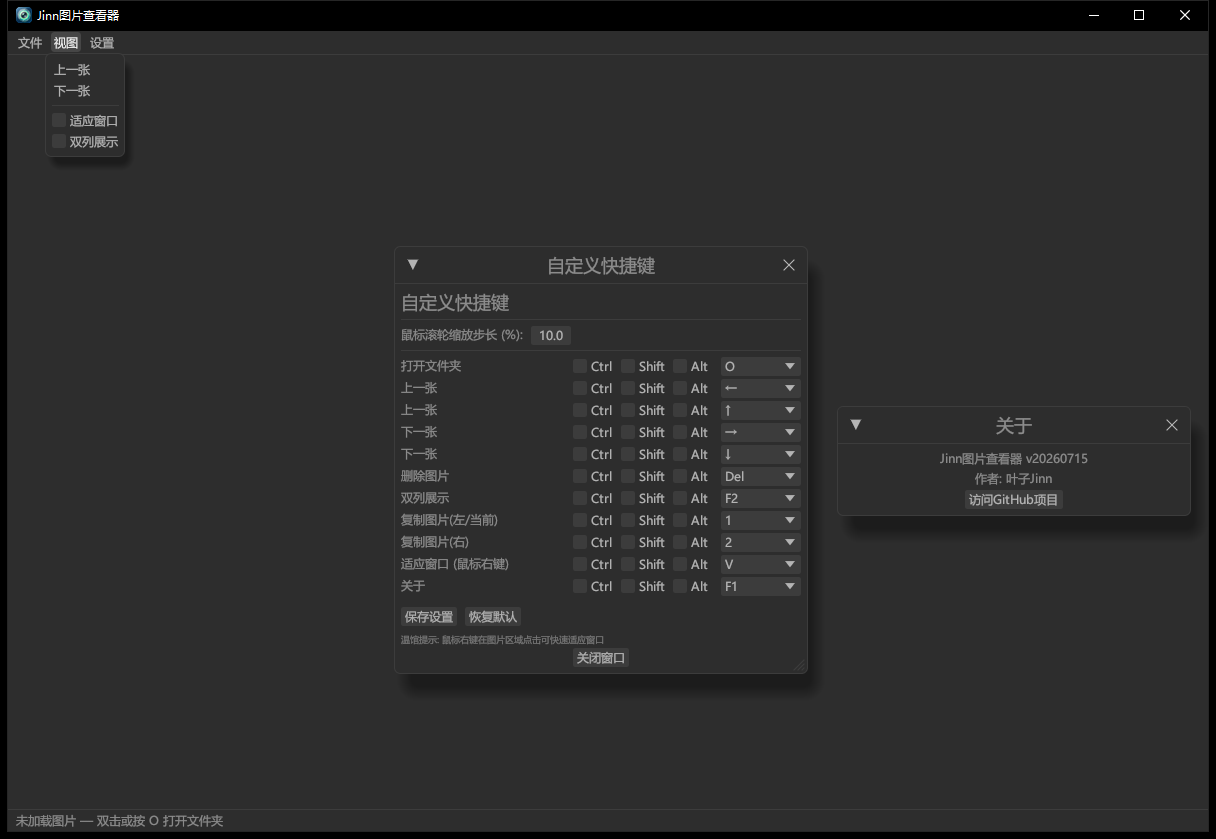
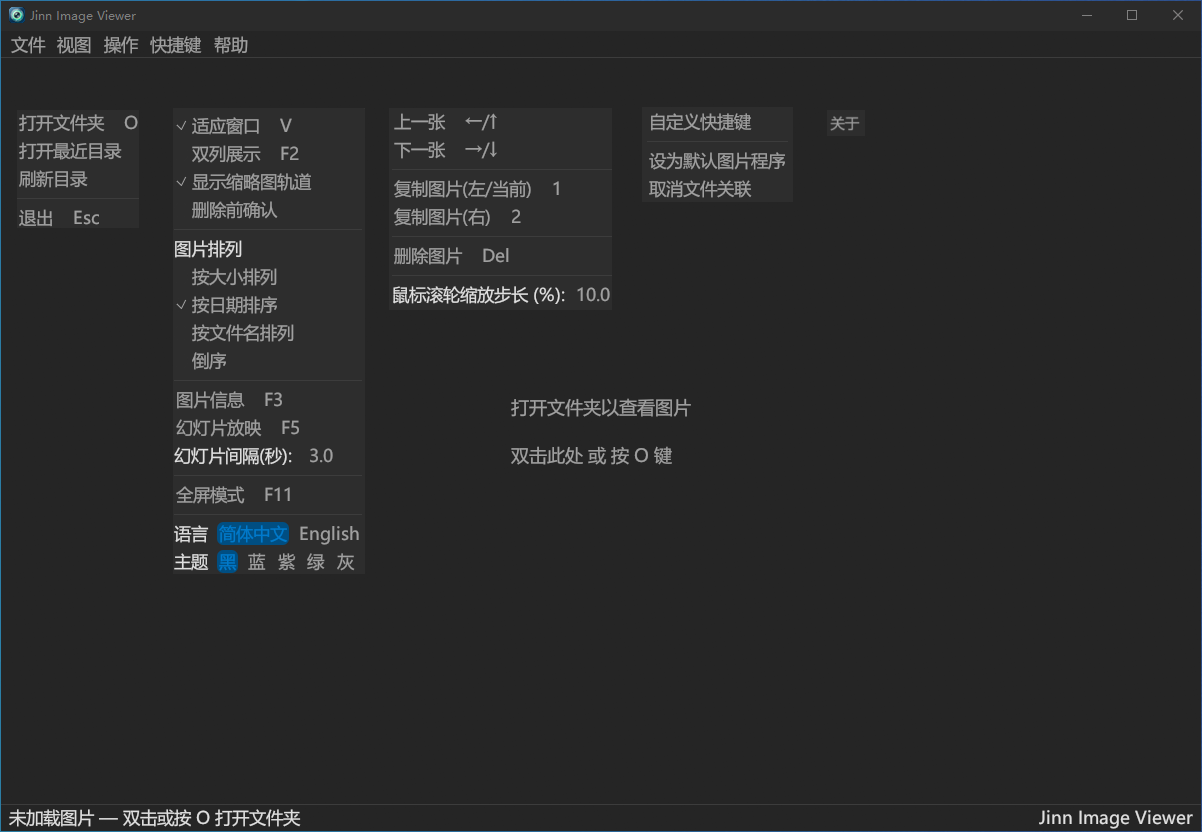
docs: 更新截图和README
重写 README.md 为 GitHub 风格展示页，添加功能预览截图和快捷键表；更新 AGENTS.md 项目概述。

diff --git a/README.md b/README.md
@@ -2,120 +2,214 @@
 
 # Jinn 图片查看器
 
-**轻量、快速、暗黑主题的 Windows 桌面图片浏览器**
+**一款轻量、快速、专注本地浏览的 Windows 图片查看器**
 
-基于 Rust + egui 构建，启动即用，无需安装
+基于 **Rust + egui/eframe** 构建，支持静态图片、GIF 动图、双列对比、缩略图导轨和多主题切换。
 
-[![Rust](https://img.shields.io/badge/Rust-1.70%2B-orange?logo=rust)](https://www.rust-lang.org/)
-[![Platform](https://img.shields.io/badge/Platform-Windows-blue?logo=windows)](https://github.com/yezijinn/jinn_imageviewer)
-[![License](https://img.shields.io/badge/License-MIT-green)](LICENSE)
+<p>
+  <a href="#功能"><img src="https://img.shields.io/badge/功能-本地浏览-2f80ed" alt="功能"></a>
+  <a href="#构建"><img src="https://img.shields.io/badge/平台-Windows-107c10" alt="平台"></a>
+  <a href="https://www.rust-lang.org/"><img src="https://img.shields.io/badge/Rust-2021-orange?logo=rust" alt="Rust"></a>
+  <a href="LICENSE"><img src="https://img.shields.io/badge/License-MIT-green" alt="License"></a>
+</p>
 
 </div>
 
 ---
 
-## 截图
+## 预览
 
-| 启动页面 | 单图展示 |
-|:--------:|:--------:|
-| <img src="screenshots/启动页面.png" width="480"/> | <img src="screenshots/单图展示.png" width="480"/> |
+### 启动与单图浏览
 
-| 双列展示 | 菜单栏 |
-|:--------:|:------:|
-| <img src="screenshots/双列展示.png" width="480"/> | <img src="screenshots/菜单.png" width="480"/> |
+<div align="center">
+  <img src="screenshots/启动页面.png" width="48%" alt="启动页面">
+  <img src="screenshots/动态图可操作.png" width="48%" alt="动态图片浏览">
+</div>
+
+### 双列对比、缩略图与菜单
+
+<div align="center">
+  <img src="screenshots/双列展示.png" width="48%" alt="双列对比浏览">
+  <img src="screenshots/缩略图导轨.png" width="48%" alt="缩略图导轨">
+</div>
+
+<div align="center">
+  <img src="screenshots/菜单.png" width="48%" alt="菜单操作">
+  <img src="screenshots/自定义快捷键.png" width="48%" alt="自定义快捷键">
+</div>
 
 ---
 
 ## 功能
 
-- **文件夹浏览** — 打开文件夹，自动扫描 PNG/JPG/JPEG/BMP/GIF/WebP/TIFF 图片，自然排序
-- **键盘导航** — 方向键切换图片，循环跳转（末张→首张，首张→末张）
-- **双列模式** — F2 切换左右并排对比浏览
-- **鼠标滚轮缩放** — 滚轮缩放，自动退出适应窗口模式，步长可调
-- **适应窗口** — V 键或鼠标右键一键适应窗口大小
-- **静默删除** — Delete 键直接删除当前图片文件（无确认弹窗）
-- **复制图片** — 1/2 键快速复制当前/右侧图片到 exe 同级 copy 目录
-- **暗黑主题** — 全局暗黑 UI + Windows 深色标题栏
-- **快捷键自定义** — 可视化面板修改任意操作的按键和修饰键
-- **状态栏** — 实时显示文件名、序号、缩放比例
-- **中文字体** — 自动加载 Windows 系统中文字体，无需额外配置
+### 浏览与操作
+
+- 打开文件夹后自动扫描图片，并按自然排序排列文件名
+- 支持 PNG、JPG、JPEG、BMP、GIF、WebP、TIFF、TIF
+- 单列浏览与双列对比浏览
+- GIF 动图播放，双列模式支持左右两侧独立播放
+- 缩略图导轨根据窗口宽度分页显示
+- 鼠标滚轮缩放，支持适应窗口模式
+- 支持顺时针/逆时针旋转图片
+- 支持复制当前图片和双列右侧图片
+- 支持删除当前图片，可选删除前确认
+- 支持图片信息、EXIF 信息和旋转结果保存
+
+### 界面与配置
+
+- 深色界面和 Windows 深色标题栏
+- 黑、蓝、紫、绿、灰五种主题
+- 中文 / English 界面切换
+- 快捷键可视化自定义
+- 最近使用目录和显示设置自动保存
+- 静态画面空闲时不持续刷新，降低 CPU/GPU 占用
+- 支持设置为 Windows 默认图片查看程序
 
 ---
 
 ## 快捷键
 
 | 操作 | 默认按键 |
-|------|---------|
+|---|---|
 | 打开文件夹 | `O` |
 | 上一张 | `←` / `↑` |
 | 下一张 | `→` / `↓` |
 | 删除图片 | `Delete` |
-| 双列模式 | `F2` |
+| 双列展示 | `F2` |
 | 复制当前图片 | `1` |
 | 复制右侧图片 | `2` |
 | 适应窗口 | `V` / 鼠标右键 |
+| 图片信息 | `F3` |
+| 幻灯片放映 | `F5` |
+| 全屏模式 | `F11` |
 | 关于 | `F1` |
 | 退出 | `Esc` |
 
-所有快捷键均可在 **设置 → 自定义快捷键** 面板中修改。
+所有快捷键均可在 **快捷键** 窗口中重新配置。
 
 ---
 
-## 编译
+## 使用方式
 
-### 前提条件
+### 直接运行
 
-- [Rust](https://rustup.rs/) (MSVC 工具链)
-- [Visual Studio](https://visualstudio.microsoft.com/) 2022+ (安装 **"使用 C++ 的桌面开发"** 工作负载)
+可以将图片文件或目录拖到程序上，也可以通过命令行传入路径：
 
-### 编译命令
+```powershell
+./target/release/jinn-imageviewer.exe "D:\Pictures"
+./target/release/jinn-imageviewer.exe "D:\Pictures\photo.jpg"
+```
 
-```bash
+也可以启动程序后使用菜单中的 **打开文件夹**。
+
+### 文件关联
+
+程序内置文件关联操作，也提供脚本：
+
+- `register.bat`：注册为 Windows 图片查看程序
+- `unregister.bat`：取消文件关联
+
+---
+
+## 构建
+
+### 环境要求
+
+- Windows 10/11
+- Rust stable
+- `stable-x86_64-pc-windows-msvc` 工具链
+- Visual Studio 2022 或更新版本
+- Visual Studio 的 **使用 C++ 的桌面开发** 工作负载
+
+检查工具链：
+
+```powershell
+rustup default stable-x86_64-pc-windows-msvc
+rustc --version
+cargo --version
+```
+
+### Release 构建
+
+```powershell
 cargo build --release
 ```
 
-编译产物位于 `target/release/jinn-imageviewer.exe`。
+生成文件：
+
+```text
+target/release/jinn-imageviewer.exe
+```
+
+也可以运行项目提供的构建脚本：
+
+```powershell
+./build.ps1
+```
+
+或双击：
+
+```text
+build_exe.bat
+```
+
+### 验证
+
+```powershell
+cargo fmt --all -- --check
+cargo check --all-targets --all-features
+cargo clippy --all-targets --all-features -- -D warnings
+cargo test --all-targets --all-features
+```
 
 ---
 
 ## 项目结构
 
-```
+```text
 jinn_imageviewer/
-├── Cargo.toml          # 项目配置和依赖
-├── Cargo.lock          # 依赖锁定
-├── build.rs            # 编译脚本：嵌入 exe 图标 + 生成编译日期版本号
-├── app_icon.ico        # 应用图标
 ├── src/
-│   └── main.rs         # 全部源码
-├── icons/PNG/          # 图标源文件 (16/32/48/64/128/256)
-└── screenshots/        # 截图
+│   ├── main.rs       # Windows 程序入口
+│   ├── app.rs        # 应用状态、快捷键和生命周期
+│   ├── ui.rs         # 菜单、图片区域、缩略图和窗口 UI
+│   ├── image.rs      # 图片扫描、解码、纹理和 GIF 管理
+│   ├── config.rs     # 配置读写
+│   ├── i18n.rs       # 中英文文本
+│   ├── shortcuts.rs  # 快捷键配置
+│   ├── sorting.rs    # 自然排序
+│   ├── theme.rs      # 主题和颜色
+│   └── lib.rs        # 模块导出
+├── tests/            # 集成测试
+├── screenshots/      # README 截图
+├── icons/            # 图标源文件
+├── app_icon.ico      # Windows 应用图标
+├── build.rs          # 编译资源和版本日期
+├── Cargo.toml        # Rust 项目配置
+└── Cargo.lock        # 依赖锁定文件
 ```
 
 ---
 
 ## 技术栈
 
-| 依赖 | 用途 |
-|------|------|
-| [eframe](https://crates.io/crates/eframe) 0.31 | GUI 框架 (基于 egui) |
-| [image](https://crates.io/crates/image) 0.25 | 图片解码 (PNG/JPG/BMP/GIF/WebP/TIFF) |
-| [rfd](https://crates.io/crates/rfd) 0.15 | 原生文件选择对话框 |
-| [raw-window-handle](https://crates.io/crates/raw-window-handle) 0.6 | 获取窗口原生句柄 (暗黑标题栏) |
-| [open](https://crates.io/crates/open) 5.0 | 打开外部链接 |
-| [winres](https://crates.io/crates/winres) 0.1 | 编译时嵌入 Windows 图标资源 |
-| [chrono](https://crates.io/crates/chrono) 0.4 | 编译时生成版本号日期 |
+| 组件 | 用途 |
+|---|---|
+| [eframe](https://crates.io/crates/eframe) | 原生窗口和 egui 应用框架 |
+| [egui](https://github.com/emilk/egui) | 即时模式 GUI |
+| [image](https://crates.io/crates/image) | 图片解码和 GIF 帧处理 |
+| [rfd](https://crates.io/crates/rfd) | Windows 原生文件夹选择框 |
+| [raw-window-handle](https://crates.io/crates/raw-window-handle) | 获取原生窗口句柄 |
+| [serde](https://crates.io/crates/serde) | 配置序列化 |
+| [winres](https://crates.io/crates/winres) | Windows 图标资源嵌入 |
 
 ---
 
-## License
+## 许可证
 
-[MIT](LICENSE)
-
----
+本项目采用 [MIT License](LICENSE)。
 
 <div align="center">
 
-**作者：叶子Jinn**
+**作者：叶子 Jinn**
 
 </div>

diff --git a/AGENTS.md b/AGENTS.md
@@ -4,7 +4,7 @@
 
 - **类型**: 单文件 Rust 桌面 GUI 应用（Windows-only）
 - **框架**: egui via `eframe` 0.31
-- **源码**: 全部在 `src/main.rs`（~1000 行），无 crate 拆分
+- **源码**: 全部在 `src/main.rs`（~940 行），无 crate 拆分
 - **构建产物**: `target/release/jinn-imageviewer.exe`
 - **图片格式**: 支持 PNG/JPG/JPEG/BMP/GIF/WebP/TIFF（由 `image` crate 决定）
 
@@ -18,10 +18,12 @@ cargo build --release
 target/release/jinn-imageviewer.exe
 ```
 
+**快捷脚本**: `build_exe.bat` 自动检测环境、构建并复制为 `Jinn图片查看器.exe`（首次构建约 5-10 分钟）
+
 **平台约束**:
 - Windows-only（`#![windows_subsystem = "windows"]` 隐藏控制台）
 - 需要 MSVC 工具链（`stable-x86_64-pc-windows-msvc`）
-- `build.rs` 在 Windows 上嵌入 `app_icon.ico` 为 exe 图标（依赖 `winres`）
+- `build.rs` 嵌入 `app_icon.ico` 为 exe 图标（依赖 `winres`）并生成编译日期版本号（`BUILD_DATE` 常量）
 
 ## 开发注意事项
 
@@ -29,6 +31,7 @@ target/release/jinn-imageviewer.exe
 - **中文字体加载**: 运行时从 `C:\Windows\Fonts\` 加载（simhei / simsunb / simkai / simfang / msyh），Windows 外运行会静默跳过
 - **FFI 依赖**: 使用 `dwmapi` 设置暗黑标题栏，仅 Windows 有效
 - **文件操作**: Delete 键直接删除图片（无确认弹窗）；复制到 exe 同级 `copy/` 目录
+- **自然排序**: 文件名按数字和文本片段分割排序（`natural_cmp` 函数），避免字典序问题（如 `img10.jpg` 排在 `img2.jpg` 后）
 
 ## 快捷操作（运行时）
 